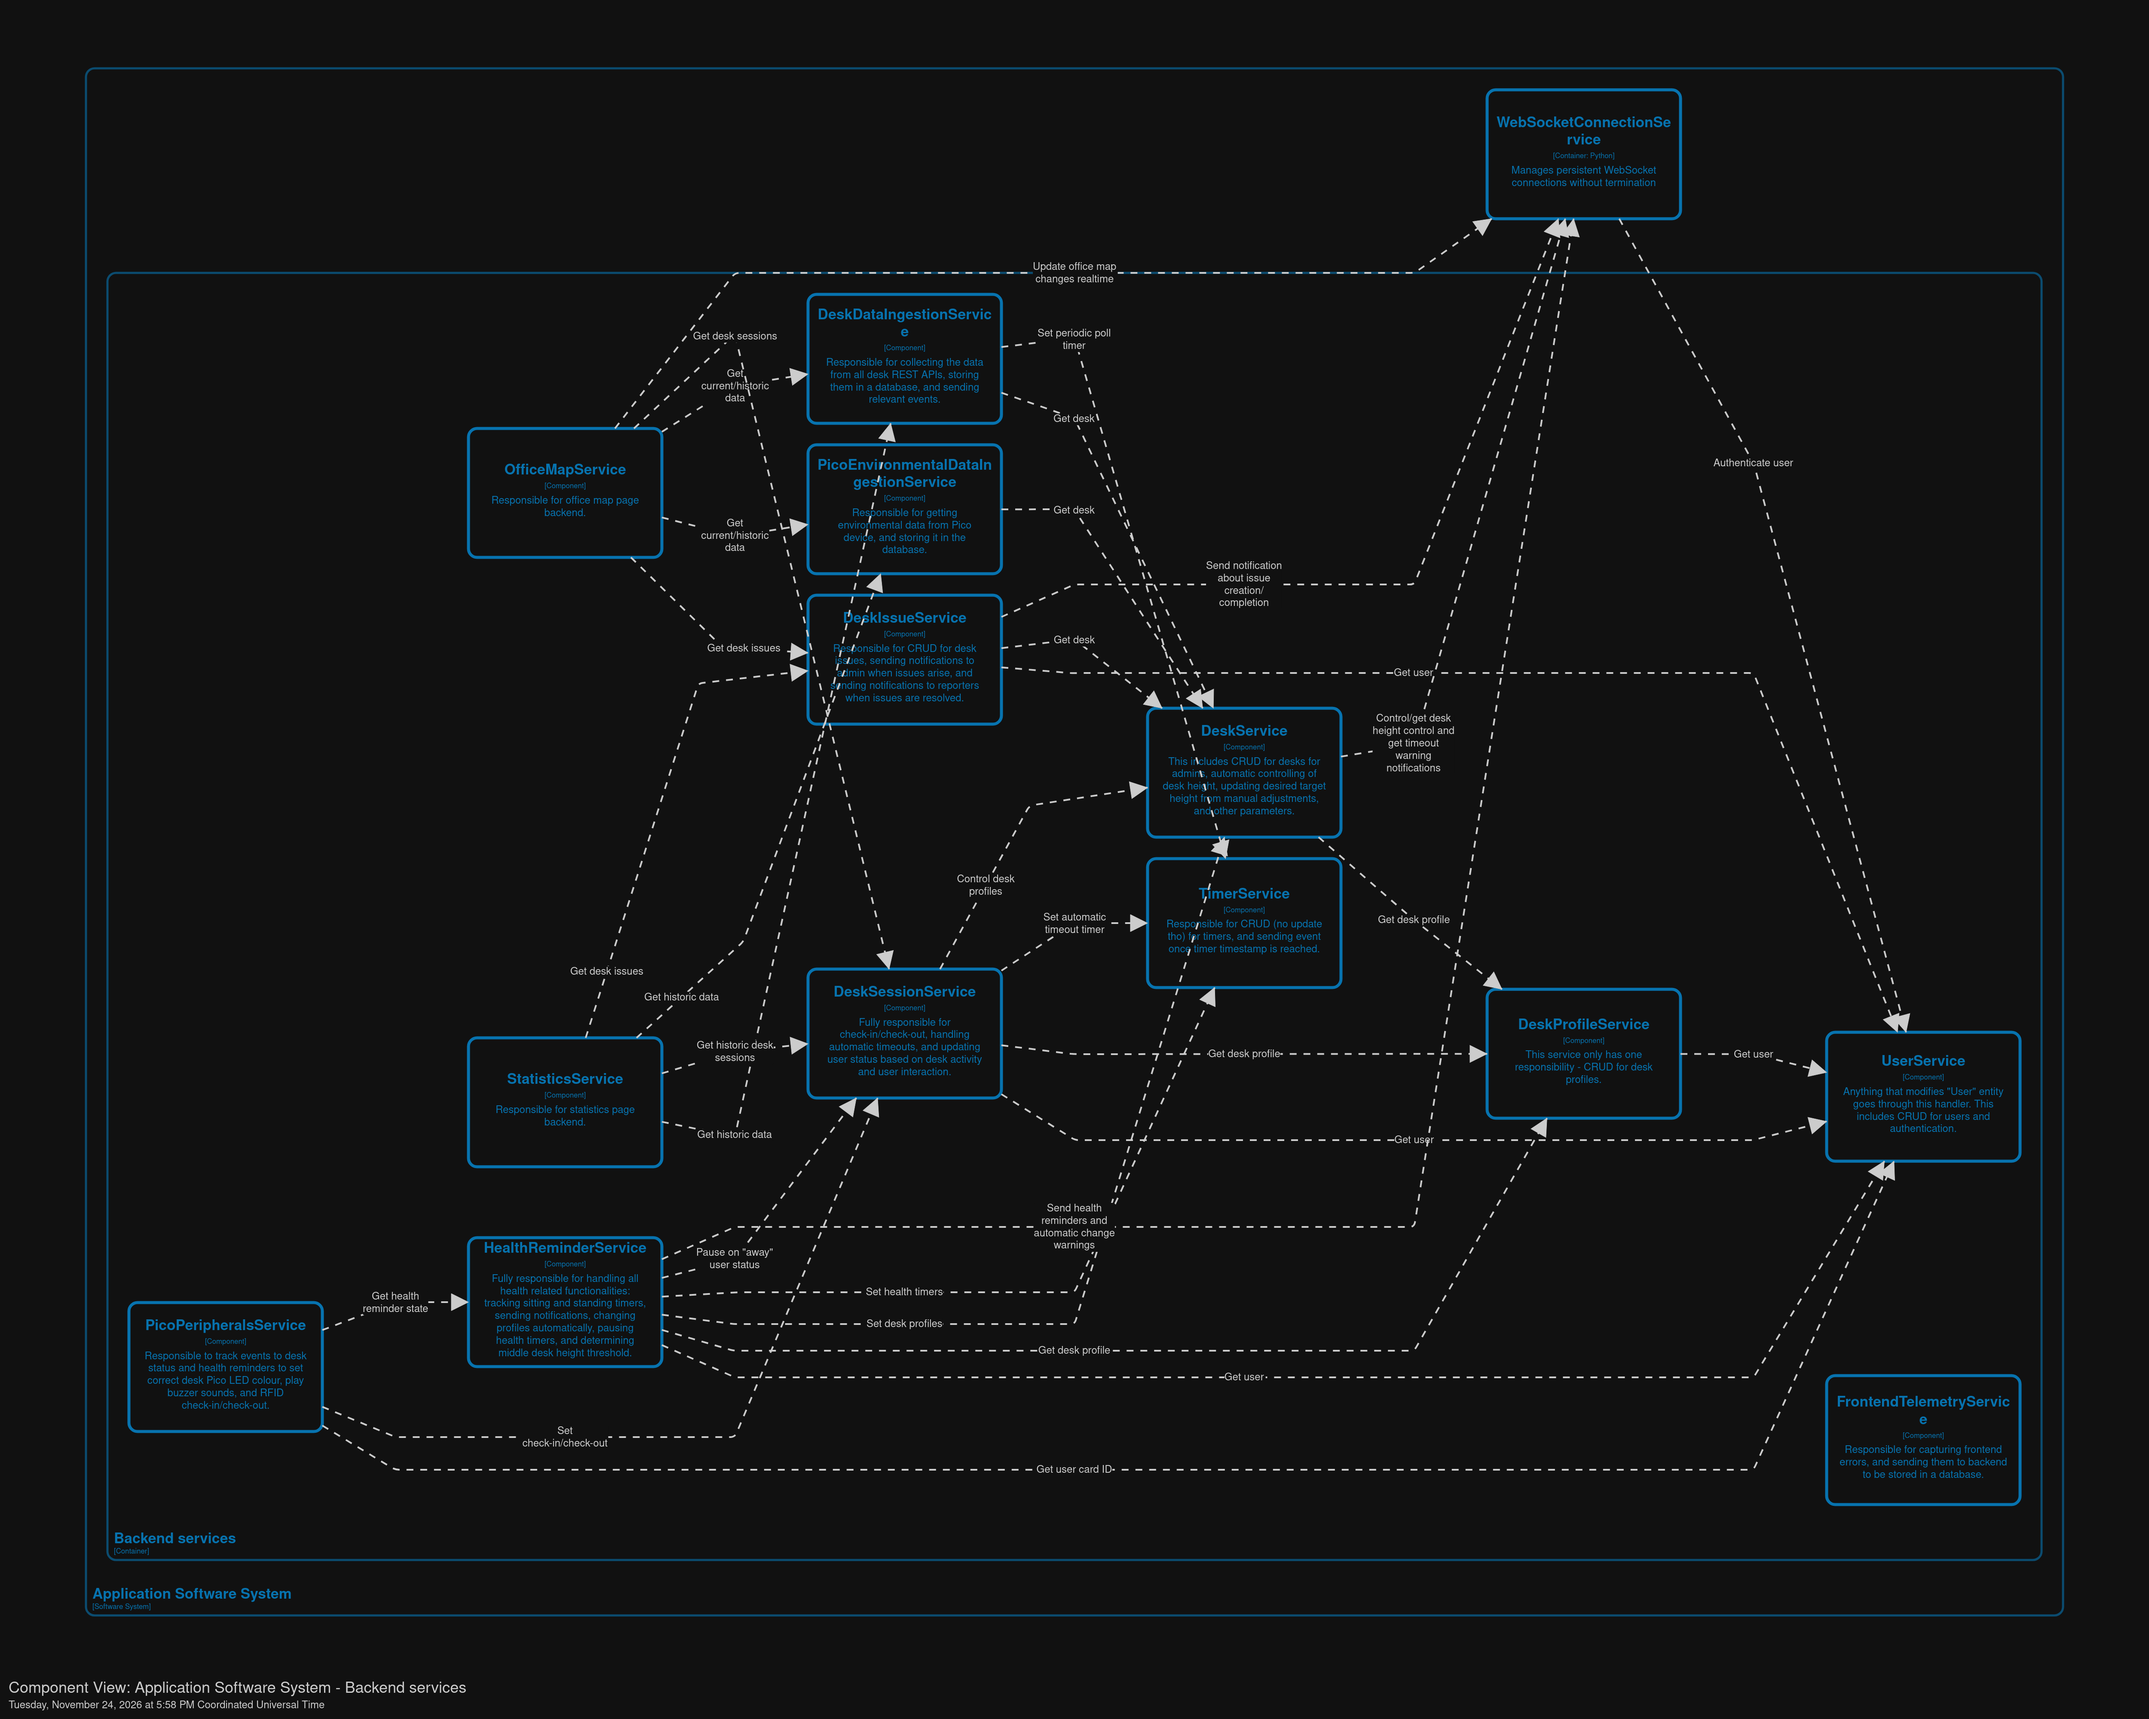
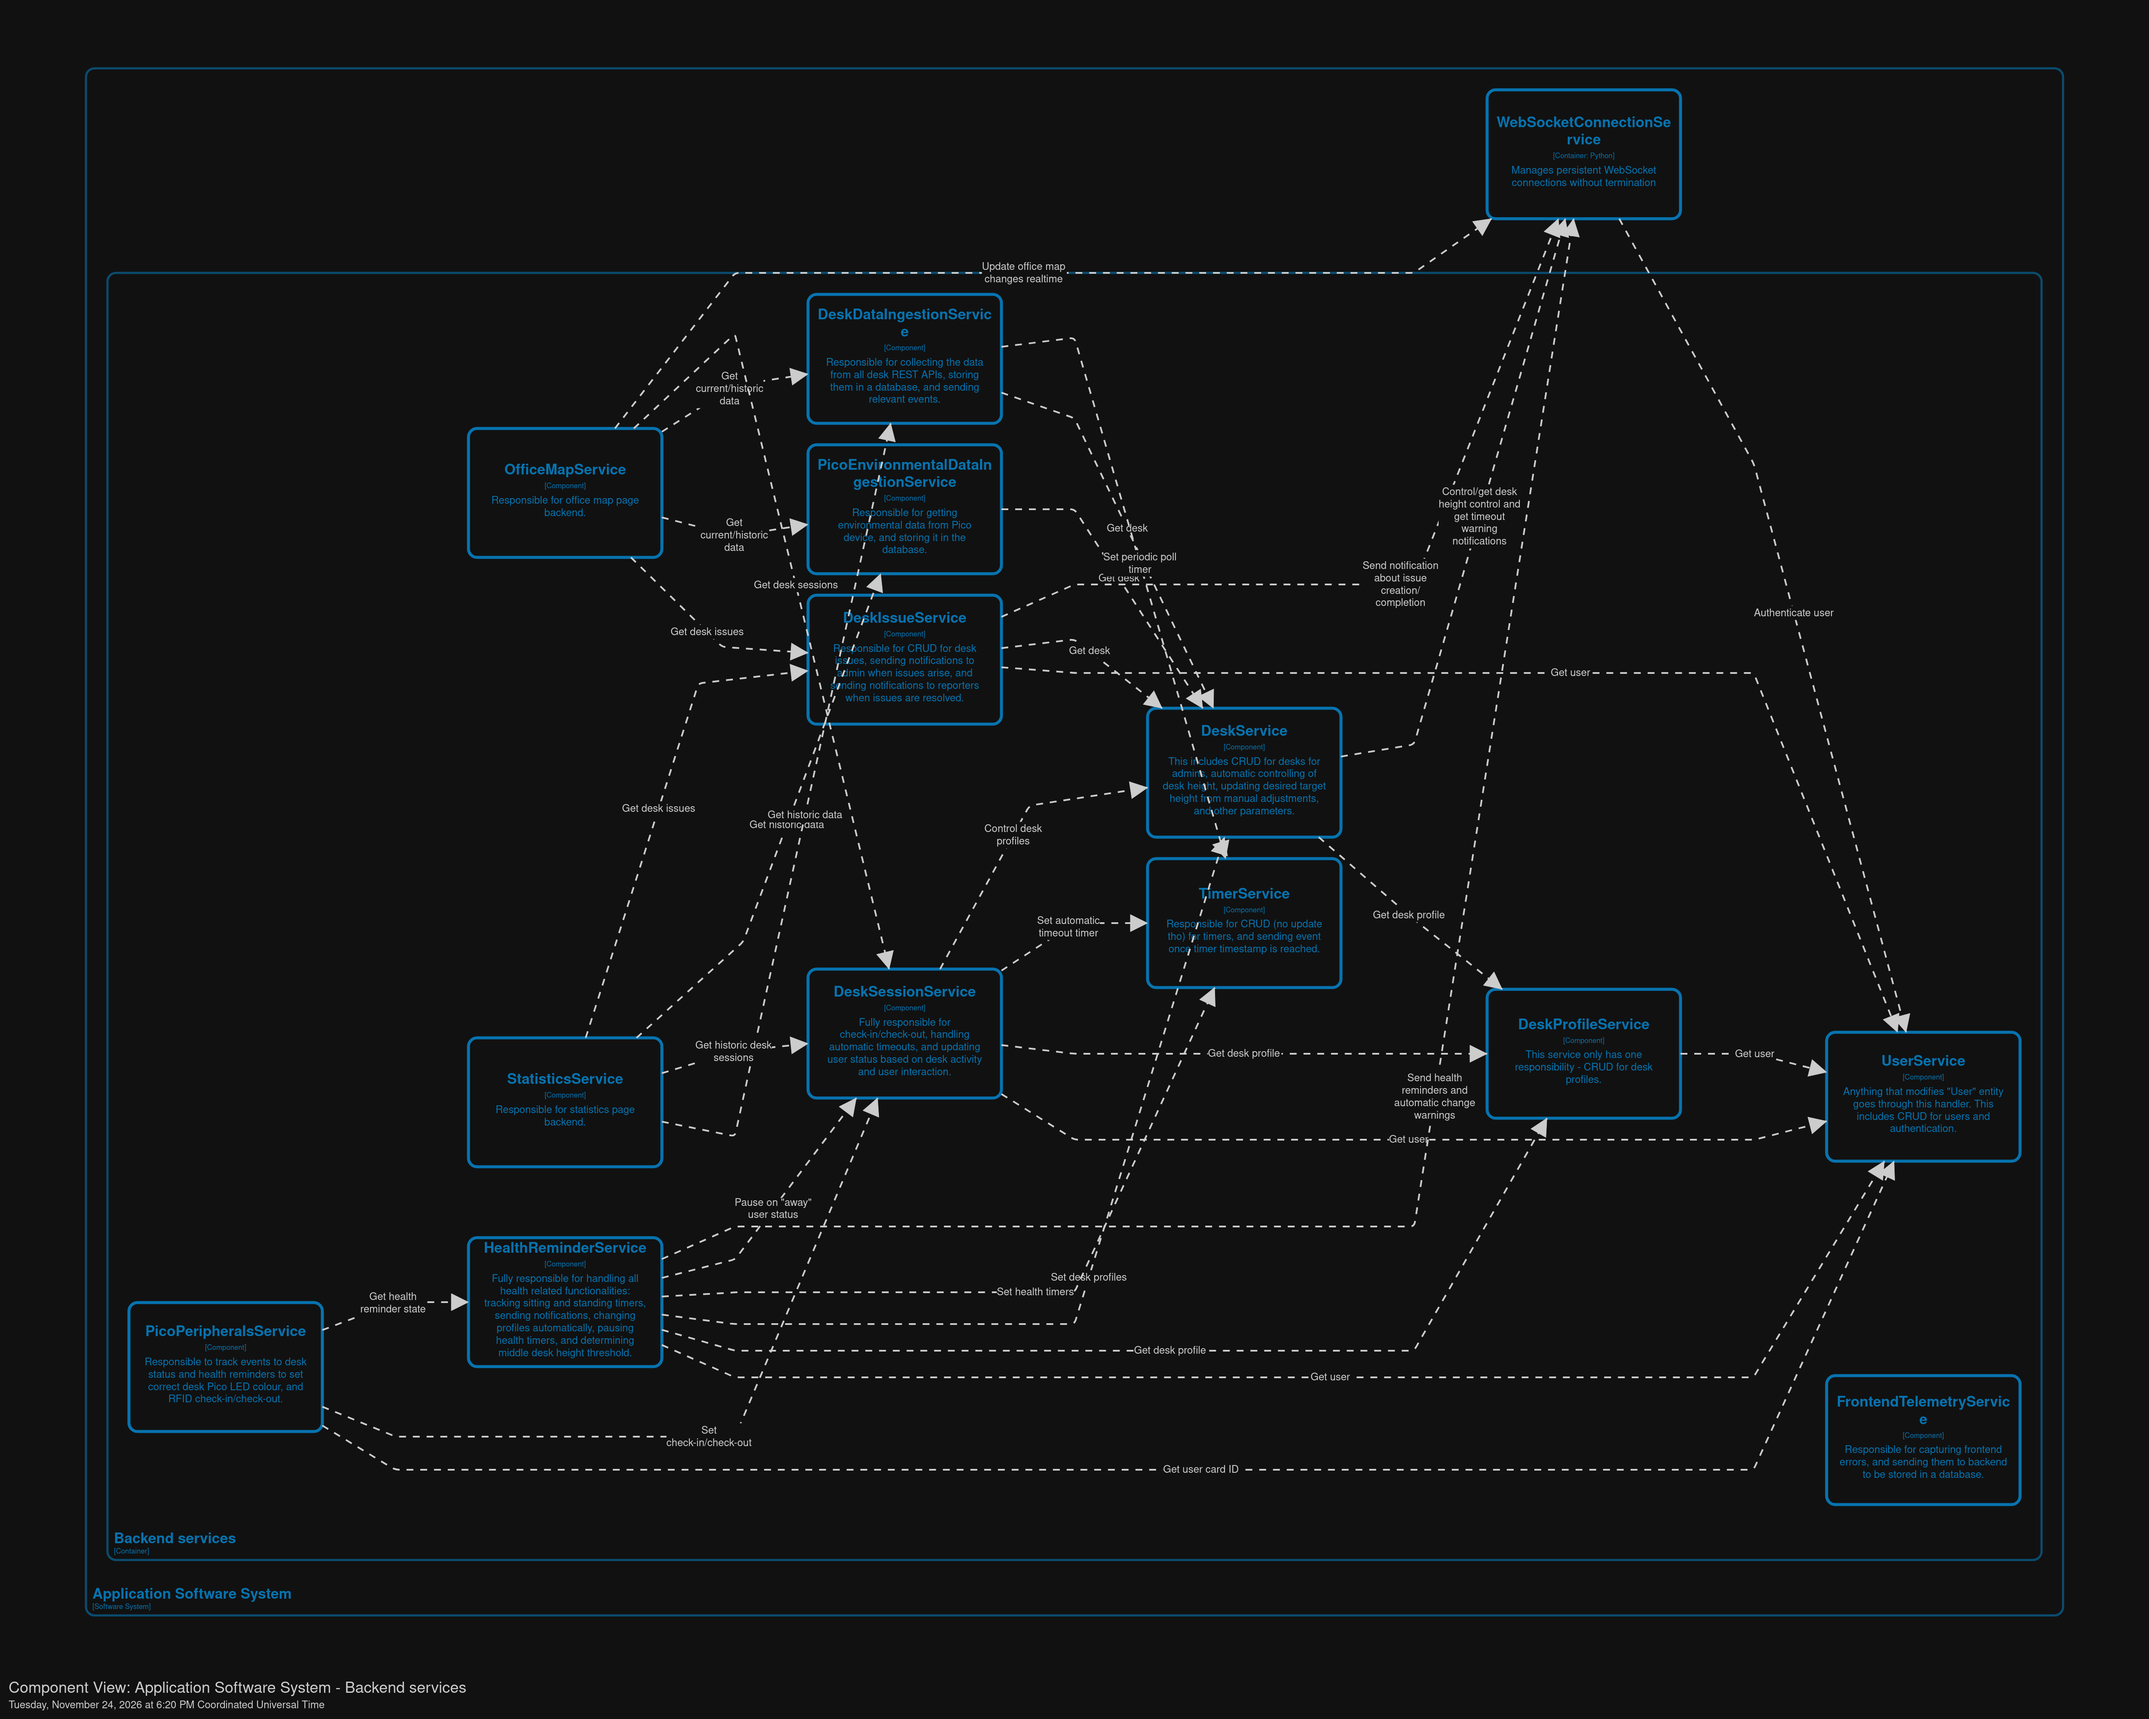
feedback changes

diff --git a/docs/design-original/sitting-standing-tracking-backend-design.md b/docs/design-original/sitting-standing-tracking-backend-design.md
@@ -1,5 +1,7 @@
 # Sitting/Standing Tracking Design #73
 
+> This design is old and not updated. Please refer to `design-updated/`
+
 - Define how desk height data is collected and compared over time.
 - Define the timer logic for detecting prolonged sitting and resetting after
   height changes.
@@ -21,6 +23,7 @@
   positions. If the desk height falls between these thresholds, the system
   retains its previously confirmed position until the height reaches the
   threshold for the other position.
+> Position detection is obsolete.
 - Filtering fluctuations: Small height adjustments are handled by the configured
   thresholds. A new position is confirmed only after the desk height meets the
   relevant threshold conditions for a defined period, preventing temporary

diff --git a/docs/design-updated/backend_services.md b/docs/design-updated/backend_services.md
@@ -54,7 +54,7 @@ Fully owns "Desk issue" entity. Responsible for CRUD for desk issues, sending no
 
 ## Pico peripherals service
 
-Fully owns "Pico peripherals" entity. Responsible to track events to desk status and health reminders to set correct desk Pico LED colour, and play buzzer sounds. It is also responsible for RFID authentication, communicating with desk session service to start new desk session with RFID card.
+Fully owns "Pico peripherals" entity. Responsible to track events to desk status and health reminders to set correct desk Pico LED colour. It is also responsible for RFID authentication, communicating with desk session service to start new desk session with RFID card.
 
 ## Pico environmental data ingestion service
 

diff --git a/docs/design-updated/entities_relationships.md b/docs/design-updated/entities_relationships.md
@@ -236,7 +236,7 @@ Notification sending will take "Desk session ID", get "User ID", and send notifi
 
 "Time elapsed before pause" is stored when the health reminder is stopped. When it is resumed, it uses paused time elapsed to recalculate "Next reminder timer ID"
 
-TODO: If during health reminder timer period, the user switches their desk from sitting to standing mode, and vice versa, should the timer reset?
+If during health reminder timer period, the user switches their desk from sitting to standing mode, and vice versa, the timer should reset.
 
 ### Actions
 

diff --git a/docs/design-original/desk-issue-report-system-high-level-design.md b/docs/design-original/desk-issue-report-system-high-level-design.md
@@ -1,5 +1,7 @@
 # Module features
 
+> This design is old and not updated. Please refer to `design-updated/`
+
 - Get the overview of all the desks with their respective status; i.e., normal/malfunctioning(if yes, display the error)
 - Search for desks based on the name, associated user, or the specified error(better flexibility for troubleshooting in large workspaces)
 - report malfunctions or collisions of each specific desk in real time(for each desk return the time since last error occurred)

diff --git a/docs/design-original/height-control-embedded-design.md b/docs/design-original/height-control-embedded-design.md
@@ -1,6 +1,9 @@
 # Height Control: embedded design #68
 
+> This design is old and not updated. Please refer to `design-updated/`
+
 ### Research
+> Control box is actually WIFI2BlE box.
 The LINAK Control Box provides access to desk height data through a REST API,
 which contains all the necessary information for monitoring desk height without
 interfering with motor control.

diff --git a/docs/design-original/infra-high-level-design.md b/docs/design-original/infra-high-level-design.md
@@ -1,5 +1,7 @@
 # Overall high-level infra design #20
 
+> This design is old and not updated. Please refer to `design-updated/`
+
 <img width="1152" height="342" alt="Image" src="https://github.com/user-attachments/assets/a66afb3e-9526-47be-a516-eee6bcaf3066" />
 
 [infra_graph.drawio](https://github.com/user-attachments/files/33046808/infra_graphh.drawio)

diff --git a/docs/design-original/height-control-backend-design.md b/docs/design-original/height-control-backend-design.md
@@ -1,5 +1,7 @@
 # Height Control: backend design #58
 
+> This design is old and not updated. Please refer to `design-updated/`
+
 ## Desk Height Control
 
 * Pass the height measurements after the height has been changed (for any

diff --git a/docs/design-original/reminder-system-backend-design.md b/docs/design-original/reminder-system-backend-design.md
@@ -1,5 +1,7 @@
 # Reminder System Design #76
 
+> This design is old and not updated. Please refer to `design-updated/`
+
 #### Purpose and Scope
 
 - Purpose is so that the user can adjust the reminder of the the sit and stand

diff --git a/docs/design-original/administration-interface-high-level-design.md b/docs/design-original/administration-interface-high-level-design.md
@@ -1,5 +1,7 @@
 # Administration interface high-level design #8
 
+> This design is old and not updated. Please refer to `design-updated/`
+
 > Assigning workers to fix the task is out of scope.
 
 ## Module features

diff --git a/docs/design-original/healthy-habits-system-high-level-design.md b/docs/design-original/healthy-habits-system-high-level-design.md
@@ -1,5 +1,7 @@
 # Healthy habits system high-level design #9
 
+> This design is old and not updated. Please refer to `design-updated/`
+
 ### Module features
 
 - Tracking Habits by desk height data over time

diff --git a/docs/design-original/desk-profile-configuration-system-high-level-design.md b/docs/design-original/desk-profile-configuration-system-high-level-design.md
@@ -1,5 +1,7 @@
 # (Desk) profile configuration system high-level design #7
 
+> This design is old and not updated. Please refer to `design-updated/`
+
 ### Module features
 
 - Create desk profiles

diff --git a/docs/design-original/office-map-high-level-design.md b/docs/design-original/office-map-high-level-design.md
@@ -1,5 +1,7 @@
 # Office map high-level design #11
 
+> This design is old and not updated. Please refer to `design-updated/`
+
 ### Module features
 
 - A 2d map as a overview of all the desks.
